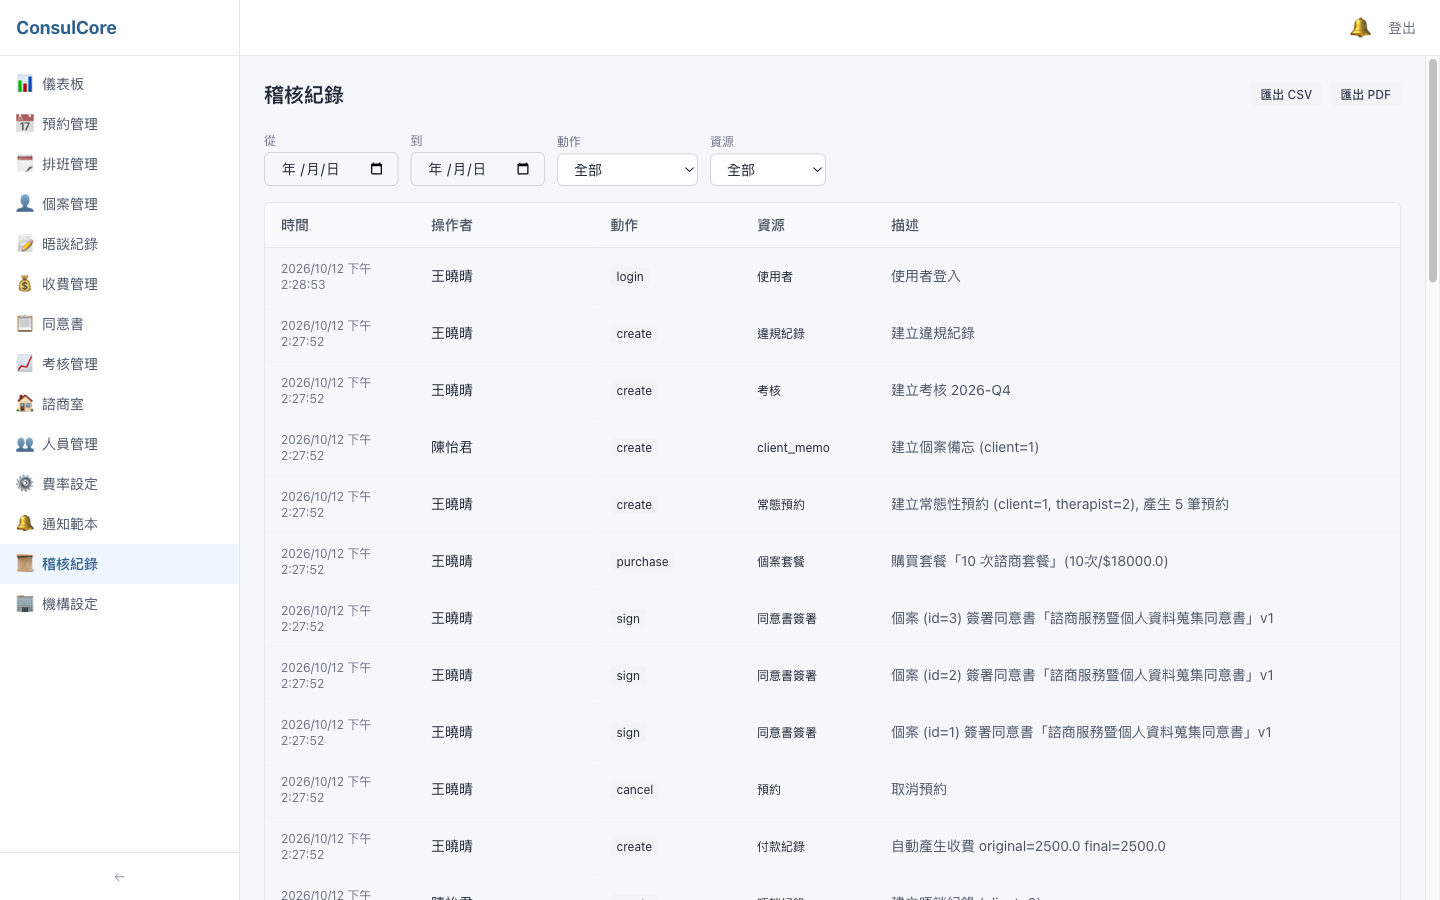
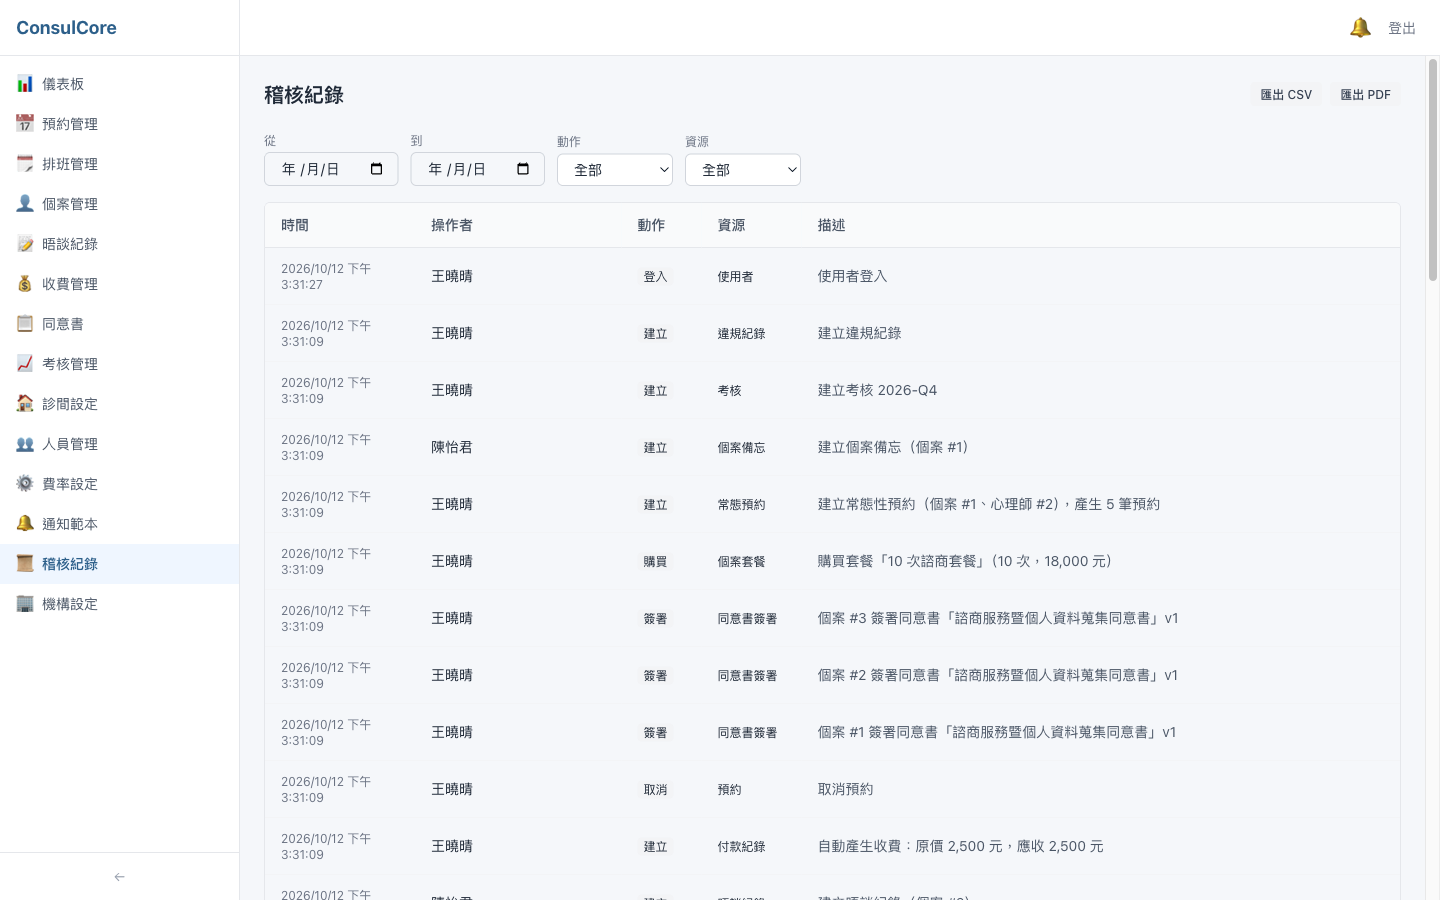
docs: 測試報告更新為修正後的最終結果
第一輪找出的 B1–B3 與修正中發現的 B4 都已修正（#19、#20），
報告改為列出修正方式與前後對照截圖，測試數字更新為 180 / 73。

diff --git a/docs/test-report.md b/docs/test-report.md
@@ -1,6 +1,8 @@
 # 整合測試報告 — Backend
 
-> 測試日期：2026-10-12　｜　版本：`main` @ `eca0dc3`　｜　前端對應版本：`consulcore-frontend` `main` @ `f70b503`
+> 測試日期：2026-10-12　｜　最終版本：`main` @ `b83427f`　｜　前端對應版本：`consulcore-frontend` `main` @ `a26a403`
+>
+> 流程：第一輪測試找出問題 → 修正（後端 PR #19、#20）→ 以最終版本重跑全部測試與截圖。本報告的數字與截圖皆為最終版本。
 >
 > 畫面操作測試、各頁截圖與 UI 問題清單見前端報告：`consulcore-frontend/docs/test-report.md`
 
@@ -9,13 +11,13 @@
 | 項目 | 結果 | 說明 |
 |------|------|------|
 | 建置（`dotnet build`，警告視為錯誤） | ✅ 0 警告 0 錯誤 | .NET SDK 10.0.401 |
-| 單元 + API 整合測試（`dotnet test`） | ✅ 173 / 173 通過 | 單元 9 個測試類別、API 整合 35 個測試類別 |
+| 單元 + API 整合測試（`dotnet test`） | ✅ 180 / 180 通過 | 單元 9 個測試類別、API 整合 37 個測試類別（第一輪 173，修正時新增 7） |
 | 端對端情境（`tests/integration-test.sh`） | ✅ 73 / 73 通過 | 對實際執行中的 API 與 SQLite 檔 |
 | OpenAPI 契約（`OpenApiContractTests`） | ✅ 一致 | `openapi.json` 與程式碼相符，前端型別由此產生 |
 | 示範資料（`scripts/seed-demo.py`） | ✅ 成功 | 全程走 API；資料已存在時立即失敗並顯示原因 |
 | CI（GitHub Actions） | ✅ `main` 通過 | 建置、測試、端對端 |
 
-測試期間發現的問題：後端 2 項、與前端共同 1 項，詳見[發現的問題](#發現的問題)。
+第一輪發現與後端有關的問題 3 項，修正過程中另外發現 1 項，**全部已修正**，詳見[發現的問題與修正](#發現的問題與修正)。
 
 ## 測試環境
 
@@ -30,13 +32,14 @@
 | 類別 | 涵蓋內容（測試類別） |
 |------|------|
 | 認證與帳號安全 | 登入限流與失敗稽核（`LoginSecurity`）、隨機初始密碼（`ClientAccountCredentials`）、強制改密碼（`MustChangePassword`）、停用帳號立即失效（`DeactivatedAccount`）、JWT 金鑰檢查（`JwtSecretKey`）、沒有 Email 的個案帳號（`ClientAccountEmail`） |
+| 機構設定 | 機構基本資料讀取、更新、權限、驗證與稽核（`OrganizationSettings`） |
 | 權限與隔離 | `X-Active-Role` 偽造提權（`PermissionPolicy`）、權限碼目錄一致（`AuthorizationCatalog`）、多租戶隔離（`TenantIsolation`）、個案資料範圍（`ClientScope`）、擁有者保護（`OwnerProtection`）、收費與通知的擁有權（`BillingAccess`、`NotificationOwnership`、`OwnershipRejectionStatus`）、表單範本權限、心理師下拉清單（`TherapistOptions`） |
-| 業務規則 | 收費冪等（`BillingIdempotency`）、時段樂觀併發與唯一性（`SlotConcurrency`、`ScheduleSlotUniqueness`）、軟刪除（`SoftDelete`）、續約提醒（`RenewalReminder`）、診所時區（`ClinicClock*`）、報表數字（`ReportCharacterization`） |
-| API 品質 | 分頁與上限（`PagedList`、`PagingBounds`）、日期參數（`DateParameter`）、模型驗證回應格式（`ValidationResponse`）、例外對應狀態碼（`ErrorHandlingMiddleware`）、追蹤碼（`CorrelationId`）、健康檢查（`HealthAndDelivery`、`HealthController`）、OpenAPI 契約 |
+| 業務規則 | 收費冪等（`BillingIdempotency`）、時段樂觀併發與唯一性（`SlotConcurrency`、`ScheduleSlotUniqueness`）、軟刪除（`SoftDelete`）、續約提醒（`RenewalReminder`）、診所時區（`ClinicClock*`）、報表數字（`ReportCharacterization`）、績效指標分母（`PerformanceMetrics`） |
+| API 品質 | 分頁與上限（`PagedList`、`PagingBounds`）、日期參數（`DateParameter`）、模型驗證回應格式（`ValidationResponse`）、例外對應狀態碼（`ErrorHandlingMiddleware`）、追蹤碼（`CorrelationId`）、稽核描述格式（`AuditDescription`）、通知範本內容（`NotificationTemplate`）、健康檢查（`HealthAndDelivery`、`HealthController`）、OpenAPI 契約 |
 | 基礎設施 | AES-256-GCM 加解密（`AesEncryptionService`）、資料庫 provider 切換（`DatabaseProvider`）、啟動設定檢查、權限種子資料、CSV 輸出 |
 
 ```text
-已通過! - 失敗: 0，通過: 173，略過: 0，總計: 173
+已通過! - 失敗: 0，通過: 180，略過: 0，總計: 180
 ```
 
 ## 2. 端對端情境（`tests/integration-test.sh`）
@@ -70,37 +73,54 @@
 
 ![Swagger UI](./screenshots/swagger.png)
 
-## 發現的問題
+## 發現的問題與修正
 
-自動化測試全部通過；以下是用示範資料實際操作畫面時發現、與後端有關的問題，**尚未修正**，待確認處理方式。
+以下是用示範資料實際操作畫面時發現、與後端有關的問題。每項都先寫出會失敗的測試，再修正。
 
-### B1. 「帳號已建立」通知內容仍寫舊的初始密碼規則（高）
+| # | 問題 | 嚴重度 | 修正 | 測試 |
+|---|---|---|---|---|
+| B1 | 「帳號已建立」通知仍寫「預設密碼為身分證後4碼+生日MMDD」，但初始密碼早已改為隨機產生 | 高 | #19 | `NotificationTemplateTests` |
+| B2 | 同一位心理師，績效總覽的預約完成率 100%、趨勢圖同月 33% | 中 | #19、#20 | `PerformanceMetricsTests` |
+| B3 | 稽核描述是 `client=1`、`original=2500.0` 這類開發用格式 | 低 | #19、#20 | `AuditDescriptionTests` |
+| B4 | 端對端腳本在 API 沒起來時，錯誤訊息本身讓腳本以 `unbound variable` 中止 | 低 | #20 | 手動以不存在的 `DB_PATH` 驗證 |
 
-開設機構時寫入的通知範本內容是「預設密碼為身分證後4碼+生日MMDD」，但初始密碼早已改為隨機產生（D11）。個案收到的通知會誤導，也透露了已廢止的密碼規則。
+### B1. 「帳號已建立」通知寫著已廢止的初始密碼規則
 
-- 位置：`Data/DatabaseSeeder.cs` 的預設通知範本（`AccountCreated`），開設機構時複製給該機構
-- 建議：範本內容改為「初始密碼由櫃檯提供，首次登入需變更」；已存在的機構需另外更新範本內容
+預設通知範本（`Data/DatabaseSeeder.cs`，開設機構時複製給該機構）沿用舊規則，個案會被誤導，也等於公開了舊規則。改為「初始密碼由櫃檯提供，首次登入時需設定新密碼」。正式環境尚無既有機構，不需回寫。
 
-![個案端通知](./screenshots/client-notifications.png)
-
-### B2. 預約完成率把尚未到來的預約算進分母（中）
-
-考核頁同一位心理師：績效總覽顯示預約完成率 100%，指標趨勢的同一個月卻是 33.3%。兩邊公式相同（已完成 ÷ 區間內全部預約），差在區間：趨勢以整個月份計算，把月底前還沒發生的「已排定」預約也算進分母（3 ÷ 9）。
-
-- 位置：`PerformanceService.GetMetricsAsync`
-- 建議：分母只計已過時間的預約（或排除 `scheduled`）
-
-| 績效總覽（近一季） | 指標趨勢（同月 33.3%） |
+| 修正前 | 修正後 |
 |---|---|
-| ![績效總覽](./screenshots/performance-overview.png) | ![指標趨勢](./screenshots/performance-trend.png) |
+| ![修正前](./screenshots/before/client-notifications.png) | ![修正後](./screenshots/client-notifications.png) |
 
-### B3. 稽核紀錄的動作、資源與描述以程式代碼呈現（低，與前端共同）
+### B2. 預約完成率的分母
 
-動作欄顯示 `login`、`create`、`sign`，資源有未翻譯的 `client_memo`，描述含 `(client=1)`、`original=2500.0 final=2500.0` 等開發用格式。稽核紀錄需要給機構負責人閱讀與匯出，應以中文與易讀的金額呈現。
+公式是「已完成 ÷ 區間內預約」，但兩個畫面的區間不同：總覽算到今天，趨勢圖算整個月份。月底前還沒發生的「已排定」預約（#19 修正）與提前取消的預約（#20 修正，重新截圖時才發現仍有 75% 對 100% 的差異）都會被算進趨勢圖的分母。
 
-- 建議：前端對動作與資源代碼做中文對照；後端描述改用個案姓名以外的易讀格式（避免在稽核描述寫入個資）並將金額格式化
+改為「已完成 ÷（已完成 + 未出席）」：只計該出席的預約，與查詢區間是否延伸到未來無關。未到率同步調整，欄位說明寫在 OpenAPI。
 
-![稽核紀錄](./screenshots/audit-log.png)
+| 修正前（趨勢圖同月 33%） | 修正後（與總覽一致，100%） |
+|---|---|
+| ![修正前](./screenshots/before/performance-trend.png) | ![修正後](./screenshots/performance-trend.png) |
+
+### B3. 稽核描述
+
+統一改為「建立預約（個案 #1、時段 #5）」「自動產生收費：原價 2,500 元，應收 2,500 元」；仍只寫編號不寫姓名，避免稽核描述帶出個資。#19 只搜尋了 `key=value` 寫法，重新截圖時發現「購買套餐（$18000.0）」等 3 處漏網，#20 補齊，測試也改為斷言所有描述都沒有 `數字.0`。動作與資源代碼的中文顯示由前端處理（前端報告 F9）。
+
+| 修正前 | 修正後 |
+|---|---|
+| ![修正前](./screenshots/before/audit-log.png) | ![修正後](./screenshots/audit-log.png) |
+
+### B4. 端對端腳本的錯誤訊息
+
+`$DB_PATH` 後緊接全形「（」，bash 會把全形字元併入變數名，`set -u` 下直接中止，看不到「找不到 SQLite 資料庫」的提示。示範用的 API 占用 5037 port、測試用 API 起不來時遇到。改為 `${DB_PATH}`。
+
+### 新增：機構基本資料 API
+
+前端報告 F11 需要可以編輯機構名稱、電話、Email、地址。新增 `GET / PUT /api/organization`（需要 `org.settings`，預設只有擁有者），機構 id 一律取自 JWT，更新留稽核並記錄前後內容。
+
+### 修正過程中的一次不穩定結果
+
+修正 B2 時，有一次完整測試出現 2 個失敗，但緊接著連續重跑 4 次都全部通過，未能重現，也沒有留下失敗的測試名稱。CI 與之後的所有本機執行皆通過；若再出現，需記下測試名稱追查。
 
 ### 已知限制（非本次問題）
 

diff --git a/README.md b/README.md
@@ -12,12 +12,12 @@
 
 ## 功能亮點
 
-- **全流程**：開設機構 → 排班與展班 → 預約（單次 / 常態）→ 同意書簽署 → SOAP 晤談紀錄與鎖定 → 自動收費、套餐扣抵、折扣 → 考核與違規管理 → 通知
+- **全流程**：開設機構與機構資料 → 排班與展班 → 預約（單次 / 常態）→ 同意書簽署 → SOAP 晤談紀錄與鎖定 → 自動收費、套餐扣抵、折扣 → 考核與違規管理 → 通知
 - **多租戶與多角色**：每筆業務資料歸屬機構（EF Core Global Query Filter）；同一帳號可有多個角色，以 `X-Active-Role` 切換身份空間，且必須是 JWT 內確實擁有的角色（防提權）
 - **個資保護**：個案資料、晤談紀錄、同意書等 28 個欄位以 AES-256-GCM 加密儲存；檢視個案與紀錄都留稽核，稽核紀錄不可刪除並可匯出 CSV / PDF
 - **正確性**：收費冪等、時段樂觀併發（409）、診所時區、軟刪除保留歷史資料
 - **API 契約**：Swashbuckle 產生 `openapi.json`，測試保證與程式碼一致；前端由此產生 TypeScript 型別
-- **測試**：173 個 xUnit 測試（含以 `WebApplicationFactory` 起完整 API 的整合測試）＋ 73 項端對端情境，CI 每次都跑
+- **測試**：180 個 xUnit 測試（含以 `WebApplicationFactory` 起完整 API 的整合測試）＋ 73 項端對端情境，CI 每次都跑
 
 ## 架構
 
